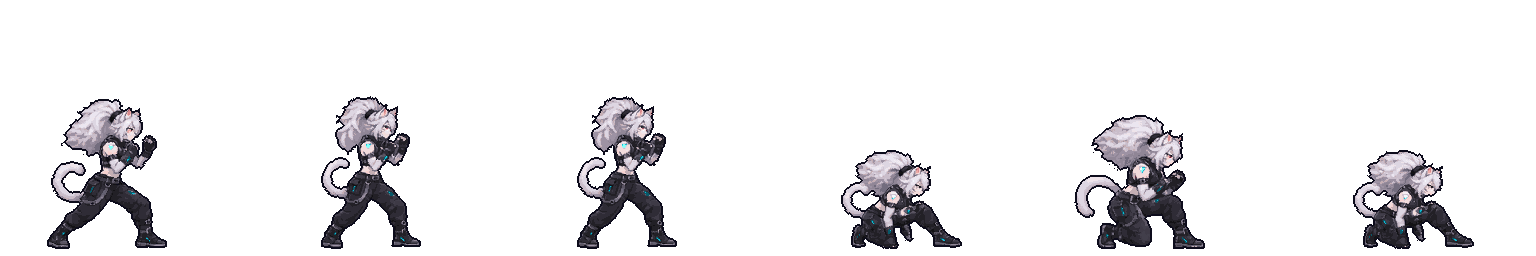
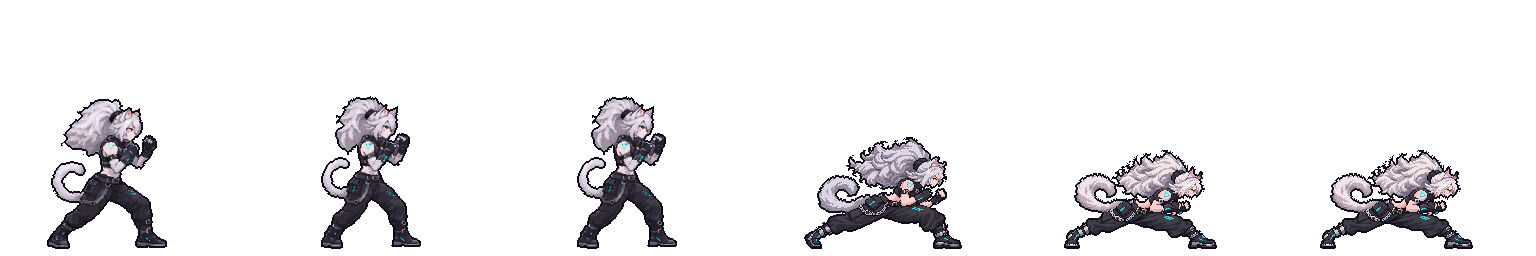
feat(feline) : garde accroupie en garde abaissée HD, et un buste net à l'écran de sélection (#227)
- La garde accroupie (blockCrouch, frames 3 à 5 de la planche block) vient de la série
  « Felina » : la garde abaissée en fente basse, à l'échelle de la référence (sa pose
  tenue fait 49 px de haut, la zone de corps accroupie 50). La planche block a une
  version HD : ses frames de garde debout y sont les mêmes, doublées pixel pour pixel.
- L'écran de sélection montre un buste dessiné (art-src/feline/portrait.png, 96 × 96),
  tiré de la garde de référence, centré sur la tête, à la place du carré de 58 px
  découpé dans la petite image du jeu, qui montrait surtout le bout de la crinière.
  Le carré de secours est recentré lui aussi.
- Le test des lumières du combat ne lit plus le buste, qui n'est pas une planche.

Claude-Session: https://claude.ai/code/session_01JBLzLMjZS6VPwWpKajS2YB

Changed region(s): [[0.6875, 0.4375, 0.8125, 0.9688], [0.8438, 0.5938, 0.9688, 0.9688], [0.5, 0.5312, 0.625, 0.9688]]

diff --git a/tests/tools/feline-hd.test.ts b/tests/tools/feline-hd.test.ts
@@ -9,7 +9,7 @@ const atlasOf = async (path: string): Promise<Atlas> =>
   JSON.parse(new TextDecoder().decode(await readFile(art(path)))) as Atlas;
 
 describe('Feline in HD (tools/sprites/generate.ts keepHd)', () => {
-  it('shows her guard, walks, crouch, jumps and dash from their HD images, in both colorways', () => {
+  it('shows her guard, walks, crouch, jumps, block and dash from their HD images, in both colorways', () => {
     expect(Object.keys(FELINE.hd ?? {})).toEqual([
       'idle',
       'walkForward',
@@ -17,6 +17,7 @@ describe('Feline in HD (tools/sprites/generate.ts keepHd)', () => {
       'crouch',
       'jump',
       'jumpForward',
+      'block',
       'dashForward',
     ]);
     expect(Object.keys(FELINE_ALT.hd ?? {})).toEqual([
@@ -26,6 +27,7 @@ describe('Feline in HD (tools/sprites/generate.ts keepHd)', () => {
       'crouch',
       'jump',
       'jumpForward',
+      'block',
       'dashForward',
     ]);
   });

diff --git a/src/art/feline/cells.ts b/src/art/feline/cells.ts
@@ -100,16 +100,16 @@ export const FELINE_CELLS: Readonly<Record<string, Cell>> = {
     ],
   },
   block: {
-    width: 151,
+    width: 162,
     height: 157,
-    anchor: { x: 83, y: 154 },
+    anchor: { x: 94, y: 154 },
     frames: [
-      { x: 2, y: 5, width: 120, height: 150 },
-      { x: 20, y: 2, width: 100, height: 153 },
-      { x: 20, y: 2, width: 100, height: 153 },
-      { x: 28, y: 56, width: 121, height: 99 },
-      { x: 5, y: 21, width: 131, height: 134 },
-      { x: 28, y: 56, width: 121, height: 99 },
+      { x: 13, y: 5, width: 120, height: 150 },
+      { x: 31, y: 2, width: 100, height: 153 },
+      { x: 31, y: 2, width: 100, height: 153 },
+      { x: 2, y: 43, width: 158, height: 112 },
+      { x: 6, y: 56, width: 153, height: 99 },
+      { x: 6, y: 56, width: 153, height: 99 },
     ],
   },
   hitCrouch: {

diff --git a/tests/render/live-lights.test.ts b/tests/render/live-lights.test.ts
@@ -244,7 +244,8 @@ describe('the live lights on the fighters (docs/flashs.md §5)', () => {
       const known = new Map<number, boolean>();
       let worst = 0;
       for (const file of await readdir(folder)) {
-        if (!file.endsWith('.png')) continue;
+        // The select screen's bust (portrait.png) is no strip: the fight never lights it.
+        if (!file.endsWith('.png') || file === 'portrait.png') continue;
         const strip = file.replace(/\.png$/, '');
         for (const pixels of cellPixels(await savedStrip(fighter, colorway, strip))) {
           let lit = 0;

diff --git a/src/art/feline/index.ts b/src/art/feline/index.ts
@@ -52,7 +52,7 @@ const ALT_ATLASES = import.meta.glob<string>('./alt/**/*.json', {
 const IDLE_ATLASES = import.meta.glob<Atlas>('./*/idle.json', { eager: true, import: 'default' });
 
 const SHARED = {
-  portrait: { x: 23, y: 0, size: 58 },
+  portrait: { x: 52, y: 3, size: 58 },
   sheets: FELINE_SHEETS,
   clips: FELINE_CLIPS,
   worldFx: FELINE_WORLD_FX,
